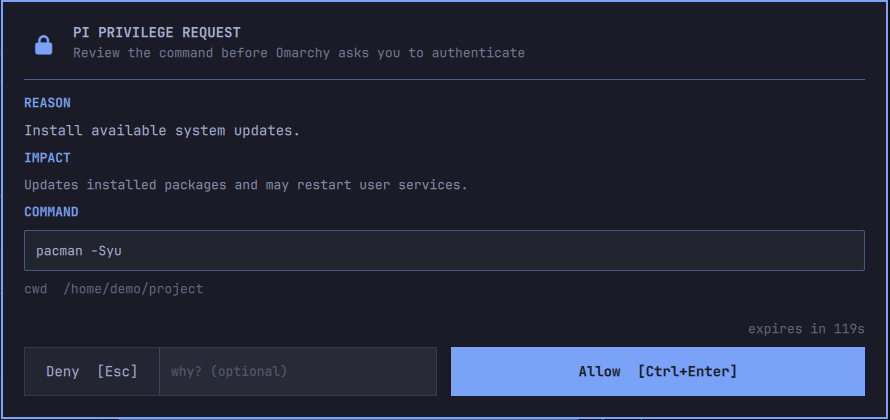
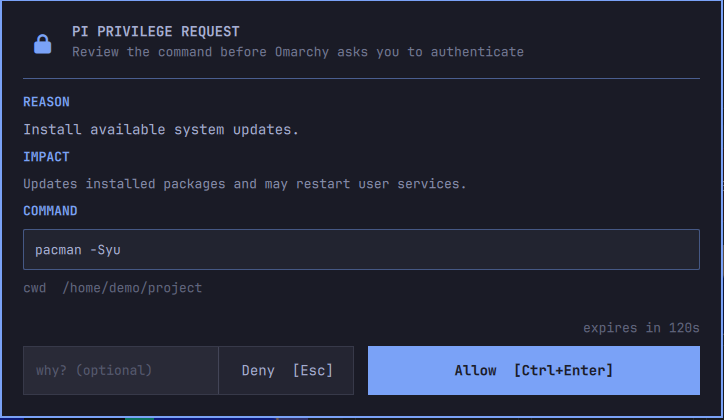
Tighten denial controls

diff --git a/omarchy/Service.qml b/omarchy/Service.qml
@@ -88,7 +88,7 @@ Item {
   IpcHandler {
     target: "io.github.adrunkhuman.pi-privileged-exec"
 
-    function version(): string { return "0.2.0" }
+    function version(): string { return "0.2.1" }
 
     function request(payloadJson: string): string {
       return root.begin(payloadJson)
@@ -148,7 +148,7 @@ Item {
 
     BorderSurface {
       id: card
-      width: Math.min(Style.space(760), panel.width - Style.gapsOut * 2)
+      width: Math.min(Style.space(620), panel.width - Style.gapsOut * 2)
       height: Math.min(
         panel.height - Style.gapsOut * 2,
         Math.max(
@@ -352,8 +352,8 @@ Item {
             Item {
               id: denyAction
               anchors.top: parent.top
+              anchors.right: parent.right
               anchors.bottom: parent.bottom
-              anchors.left: parent.left
               width: Style.space(116)
 
               Text {
@@ -374,18 +374,18 @@ Item {
             Rectangle {
               anchors.top: parent.top
               anchors.topMargin: 1
-              anchors.right: parent.right
-              anchors.rightMargin: 1
+              anchors.right: denyAction.left
               anchors.bottom: parent.bottom
               anchors.bottomMargin: 1
-              anchors.left: denyAction.right
+              anchors.left: parent.left
+              anchors.leftMargin: 1
               radius: Math.max(1, root.cornerRadius - 1)
               color: Util.alpha(root.foreground, 0.035)
 
               Rectangle {
                 anchors.top: parent.top
+                anchors.right: parent.right
                 anchors.bottom: parent.bottom
-                anchors.left: parent.left
                 width: 1
                 color: Util.alpha(root.foreground, 0.2)
               }

diff --git a/extension/install-omarchy.ts b/extension/install-omarchy.ts
@@ -6,7 +6,7 @@ import { dirname, join, resolve } from "node:path";
 import { fileURLToPath } from "node:url";
 
 export const IPC_TARGET = "io.github.adrunkhuman.pi-privileged-exec";
-const PLUGIN_VERSION = "0.2.0";
+const PLUGIN_VERSION = "0.2.1";
 
 const sourceDir = resolve(dirname(fileURLToPath(import.meta.url)), "../omarchy");
 const targetDir = join(homedir(), ".config/omarchy/plugins", IPC_TARGET);
